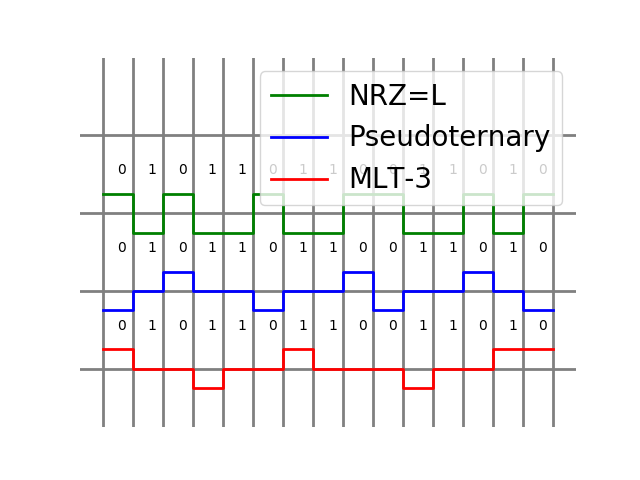
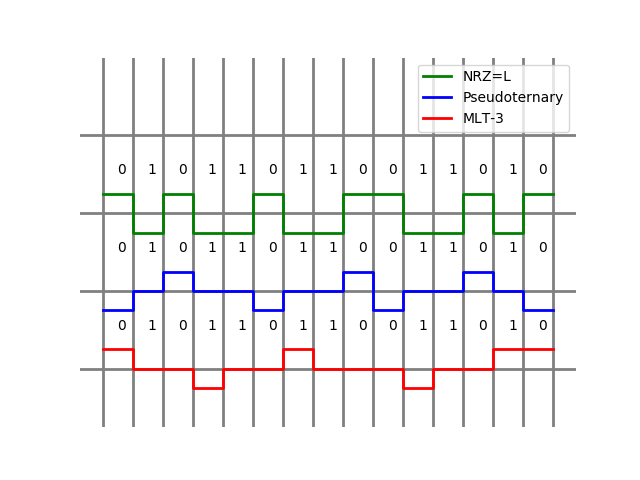
using git very poorly here but its free so

Changed region(s): [[0.4062, 0.125, 0.9062, 0.4375]]

diff --git a/mcgintyProjectTwo.py b/mcgintyProjectTwo.py
@@ -84,7 +84,7 @@ def plotSchemes(bits):
     plt.step(t, nrzl_levels + 9, 'green', linewidth = 2, where='post', label='NRZ=L')
     plt.step(t, pseudoternary_levels + 5, 'blue', linewidth = 2, where='post', label='Pseudoternary')
     plt.step(t, mlt3_levels + 1, 'red', linewidth = 2, where='post', label='MLT-3')
-    plt.legend(loc='upper right', prop={'size': 20})
+    plt.legend(loc='upper right', prop={'size': 10})
 
     plt.ylim([-2, 17])
 
